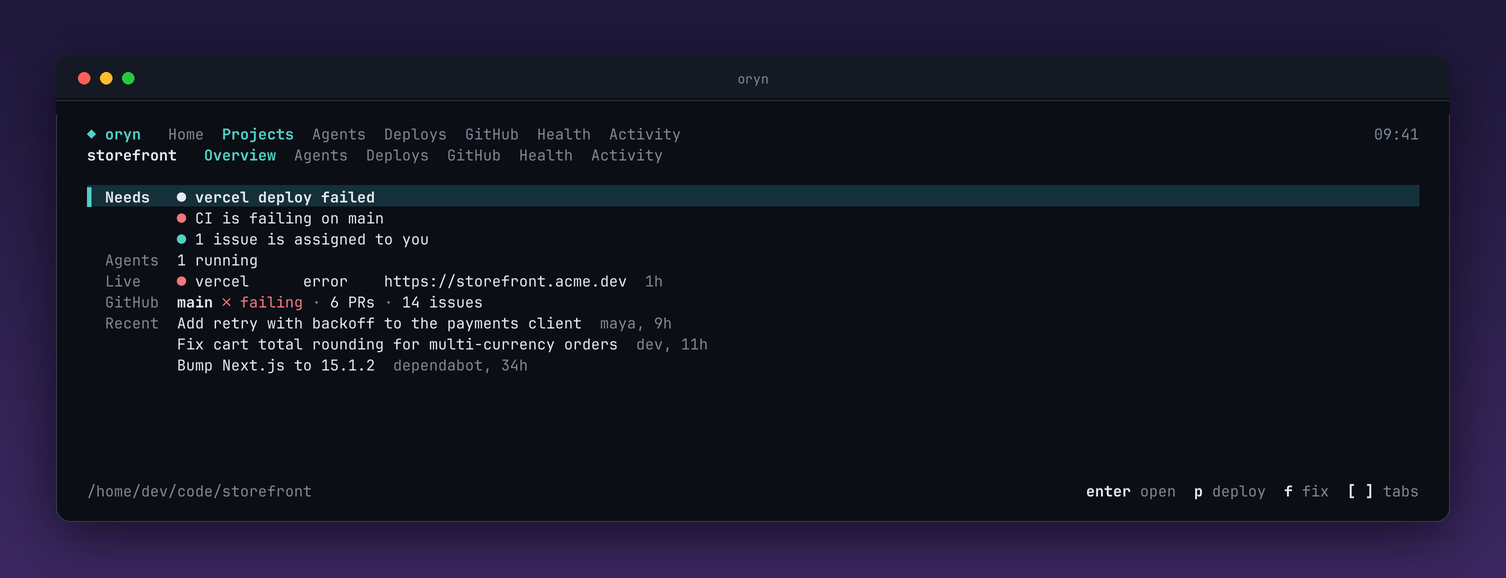
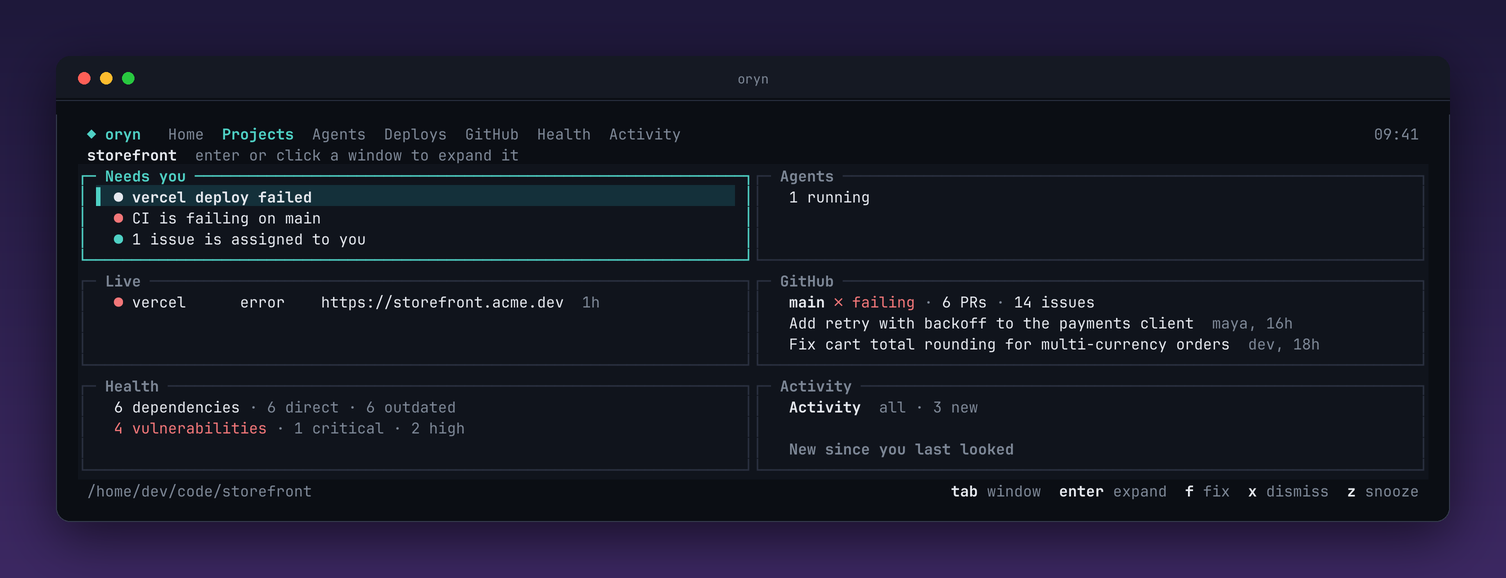
docs: cover windows, set-aside items, and the new actions
Regenerate the screenshots for the project windows, and record the rule
for CI job names in agent context.

Changed region(s): [[0.0312, 0.2491, 0.9675, 0.7474], [0.0624, 0.7474, 0.9363, 0.872]]

diff --git a/README.md b/README.md
@@ -20,8 +20,8 @@ names and versions to public APIs (OSV, npm, PyPI, Go proxy).
 |---|---|
 | **Agents.** Every agent in your projects, with the ones waiting on you first. | **Review.** Read what an agent changed, then open a PR or discard it. |
 | ![Agents](docs/screenshots/agents.png) | ![Reviewing an agent's diff](docs/screenshots/review.png) |
-| **A project.** What needs you, where it's live, and recent commits. | **Health.** Vulnerabilities and outdated packages, out of your way. |
-| ![A project's overview](docs/screenshots/project.png) | ![Health](docs/screenshots/health.png) |
+| **A project.** Windows for what needs you, agents, deploys, GitHub, health and activity. | **Health.** Vulnerabilities and outdated packages, out of your way. |
+| ![A project's windows](docs/screenshots/project.png) | ![Health](docs/screenshots/health.png) |
 
 `ctrl+p` opens a command palette for every tab, project and action, and Activity
 keeps a timeline of what changed. These screens use made-up projects.
@@ -155,15 +155,31 @@ opens, `esc` goes back, `r` refreshes, `?` lists every key and `q` quits.
 agents waiting on you, and critical vulnerabilities that are new since your last
 visit. Known vulnerabilities and upstream outages stay on Health.
 
-**A project** has its own tabs, switched with `[` and `]`: Overview, Agents,
-Deploys, GitHub, Health and Activity. Overview shows what needs you there, where
-it's live, GitHub state and recent commits. `p` deploys, and `f` hands a failure
-to an agent.
+`x` dismisses an item until it changes, so a new failure under the same heading
+still reaches you. `z` snoozes it for a day, and `u` brings back what you set
+aside. The list always says how much is hidden.
+
+**A project** opens on six windows: Needs you, Agents, Live, GitHub, Health and
+Activity. `tab` moves between them, and `enter` or a click expands one to full
+size. `esc` comes back, and `[` `]` jump straight between expanded windows. `p`
+deploys, and `f` hands a failure to an agent. On a short terminal you see the
+focused window alone.
 
 **The GitHub tab** in a project is read from the folder's git remote, with no
 setup. `h/l` moves through Overview, PRs, Issues, Actions, Commits, People,
-Releases and Dependabot Alerts, and `enter` opens a row in your browser. If a
-folder's remote isn't the repo you want, map it in the config:
+Releases and Dependabot Alerts, and `enter` opens a row in your browser.
+
+| Key | Where | Action |
+|---|---|---|
+| `M` | PRs | Merge with your default method for the repo, warning if CI or review isn't clean |
+| `a` | PRs | Approve |
+| `L` | Actions | Read the end of a run's log, starting from its failed job |
+| `R` | Actions | Re-run a run's failed jobs |
+
+Merge, approve and re-run all ask first. They act on the commit you were looking
+at, so if a PR moved on after you last refreshed, GitHub refuses.
+
+If a folder's remote isn't the repo you want, map it in the config:
 
 ```toml
 [repos]
@@ -228,8 +244,10 @@ answers for the project the worktree came from.
 
 Both read local files and oryn's last refresh, so they answer instantly and never
 touch the network. Open oryn once, or run `oryn daemon`, to fill in CI and deploy
-data. They carry counts and states only, never PR titles, issues or logs, because
-outsiders write those. Nothing here can deploy, delete, push or start anything,
+data. They carry counts, states and names from the project's own committed files,
+never PR titles, issues or logs, because outsiders write those. When CI fails on
+the default branch, they name the workflow, job and step at that exact commit and
+give the `gh` command for the log, so an agent reads it knowingly. Nothing here can deploy, delete, push or start anything,
 and claims only touch oryn's own database.
 
 Claims are a signal between cooperating agents, not a lock on the files, and they
@@ -248,13 +266,17 @@ Connect an account with `A` (oryn verifies a pasted token before saving it), use
 | Key | Action |
 |---|---|
 | `p` | Deploy with the platform's CLI, after showing the exact command, with live progress |
+| `L` | Read a deployment's build log, following it while it builds. Vercel and Cloudflare only: Netlify's API has no build logs |
+| `R` | Put an earlier production deployment back live without rebuilding, after asking |
 | `d` | Delete a deployment |
 | `X` | Delete the whole project, once you type its name |
 | `u` | Unlink the folder in oryn only |
 
 Links are kept in your oryn config, never written into your project. Cloudflare
 refuses to delete the live production deployment, so oryn tells you up front.
-Netlify support has only been tested against a fake server so far.
+After a Vercel rollback, new deploys don't go live until you promote one, and oryn
+warns you before you confirm. Netlify support and rollback on every platform have
+only been tested against a fake server so far.
 
 ## Health
 
@@ -303,11 +325,8 @@ store it, and only sends it to `api.github.com`.
 
 ## Roadmap
 
-- Show why CI failed in `oryn context`
-- Dismiss or snooze items in Needs you
 - AI features: daily brief, explain a failed deploy or CI run, changelog impact
-- Rollback and promote, live deploy logs
-- Merge, approve and re-run CI from oryn
+- Promote from oryn, and showing which deployment is live after a rollback
 - Later: upgrade desk, custom layouts, custom sources, team sync
 
 ## Contributing

diff --git a/CONTRIBUTING.md b/CONTRIBUTING.md
@@ -66,8 +66,10 @@ These aren't style preferences. A PR that breaks one won't be merged.
 - **Never skip an agent's approvals.** `Tools` must not gain a flag like
   `--dangerously-skip-permissions`, and oryn doesn't answer prompts for you.
 - **Outsiders' text is data, never instructions.** PR titles, issues, logs and
-  deploy messages stay out of `oryn context`, MCP and "Fix this" tasks. Anything
-  agent-written shown in the TUI gets terminal control codes stripped.
+  deploy messages stay out of `oryn context`, MCP and "Fix this" tasks. CI job
+  names may go in only from runs of the default branch's head commit, which is
+  what the project itself committed. Anything agent-written or from a log shown
+  in the TUI gets terminal control codes stripped.
 - **No shell.** Run commands as argument lists with `exec.Command`. User and
   agent text must never reach a shell.
 - **MCP stays harmless.** No tool may deploy, delete, push or start anything.
